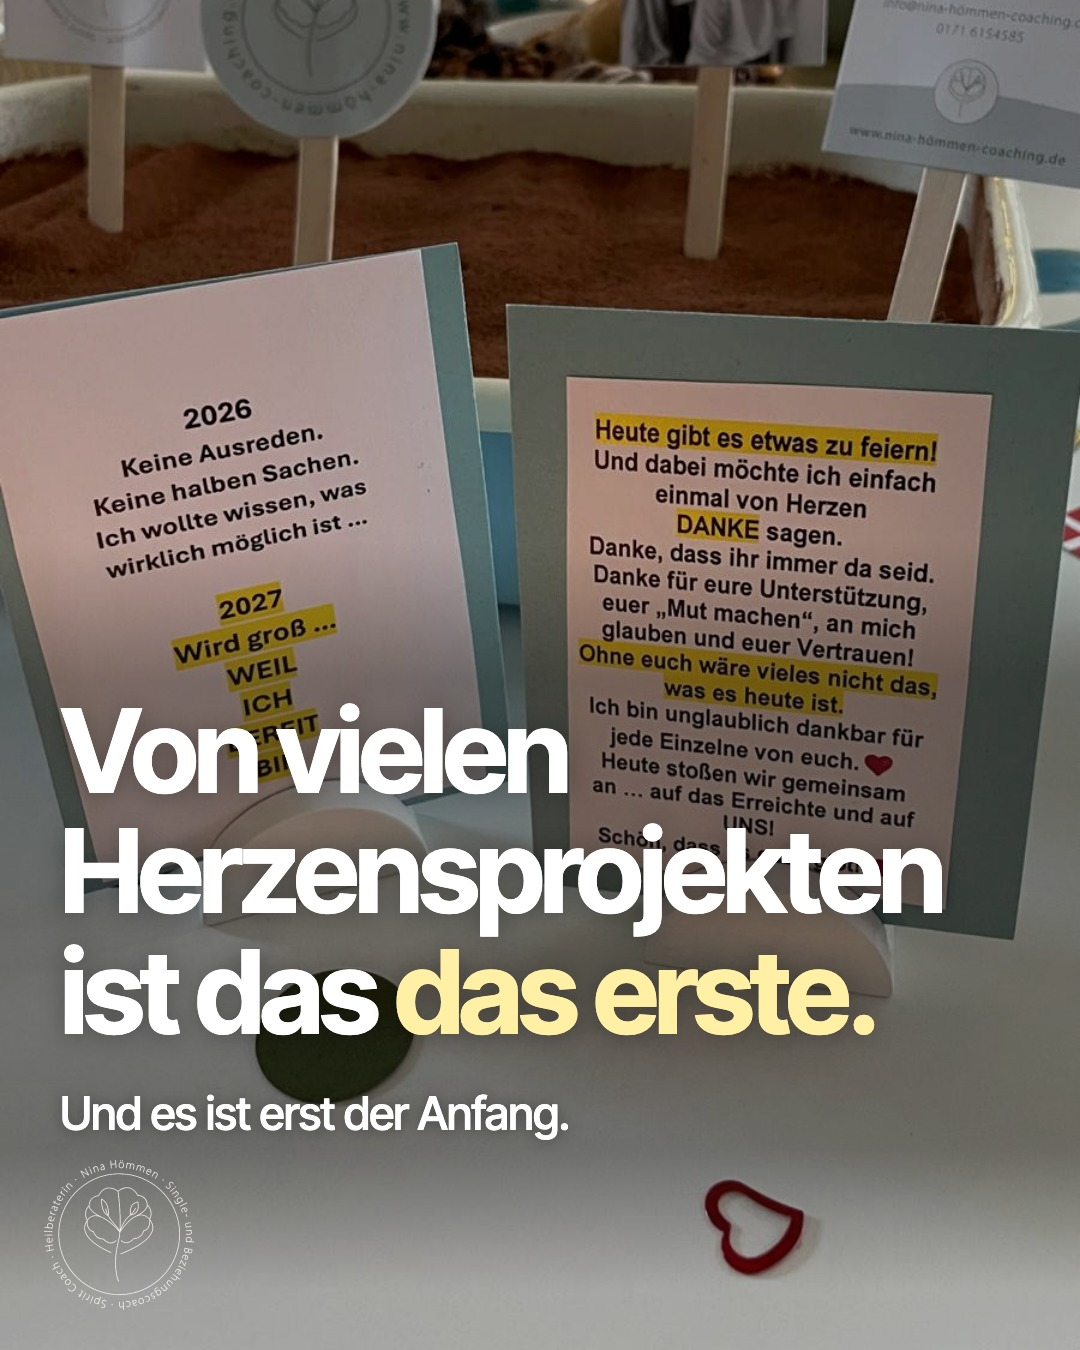
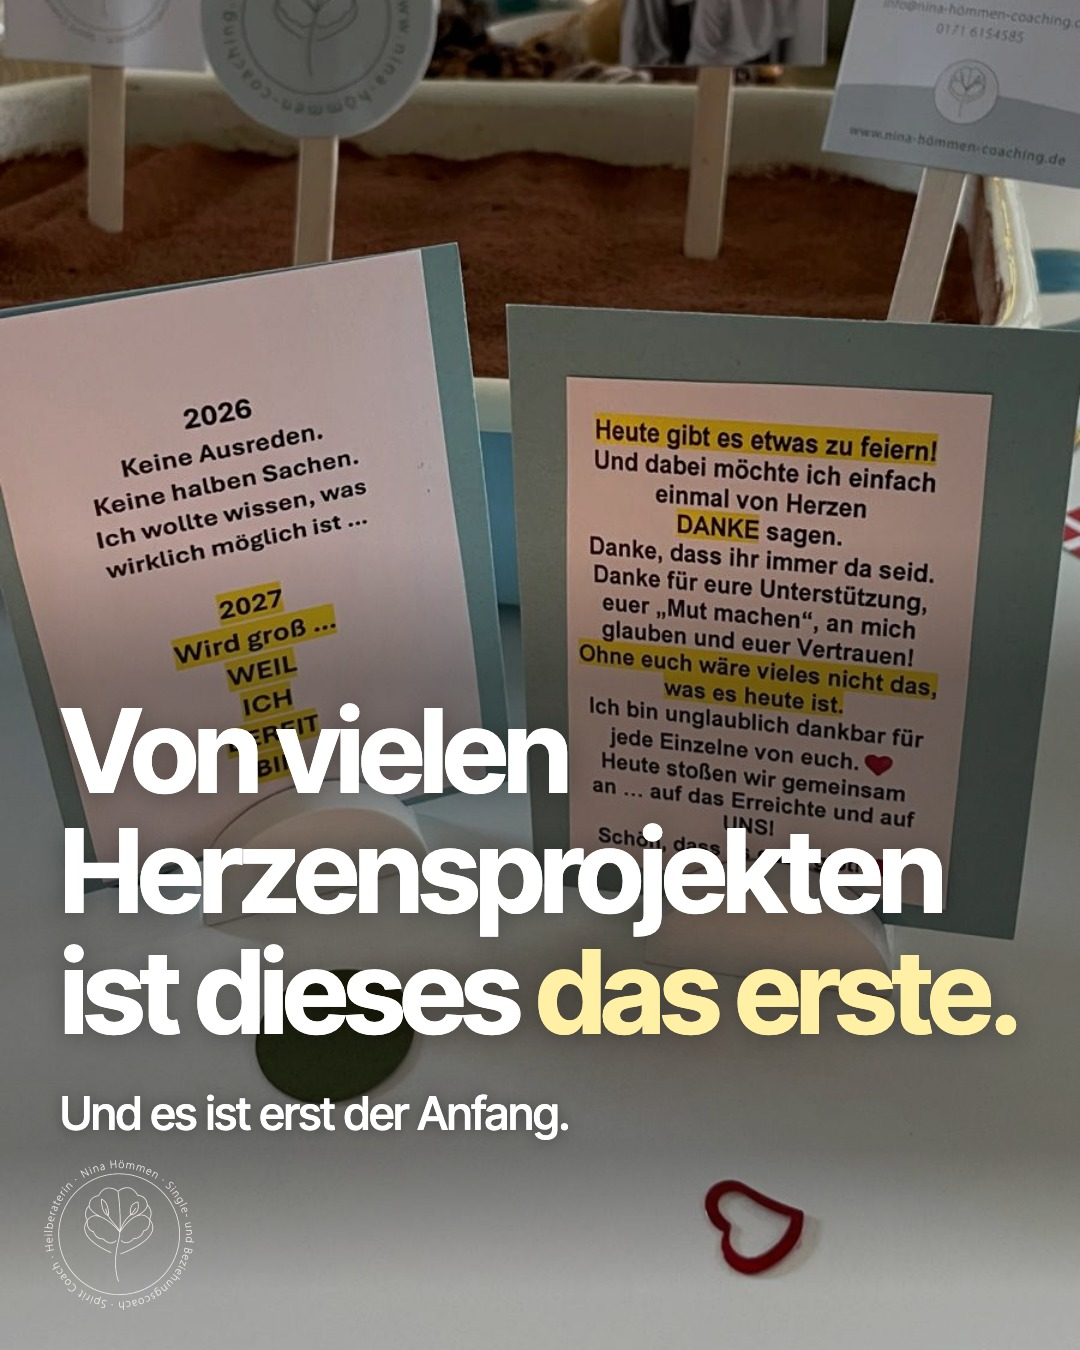
k56: Mitnahme ergänzt, Tippfehler Seite 5

Changed region(s): [[0.2444, 0.6844, 0.9472, 0.7778]]

diff --git a/docs/content-posts-auto.md b/docs/content-posts-auto.md
@@ -1444,7 +1444,7 @@ Was würdest du dir zuerst anschauen? 🤍
 | 2 | Textseite | Mein Shop ist da. Gemacht mit ganz viel Herz, Liebe und Leidenschaft. |
 | 3 | Textseite | Buch, Hörbuch, E-Book, Journale, Meditationen, Beziehungslandkarte, Gesprächskarten und Adventskalender. |
 | 4 | Textseite | Und ab 2027 kommt meine eigene App: HERZ.REISE. |
-| 5 | Textseite | Von vielen Herzensprojekten ist das das erste. Und es ist erst der Anfang. |
+| 5 | Textseite | Von vielen Herzensprojekten ist dieses das erste. Und es ist erst der Anfang. |
 | 6 | Schlussseite | Für Singles und Menschen in herausfordernden Beziehungen. Wer soll das wissen? Schick es weiter. Link in der Bio. |
 
 **Caption:**
@@ -1456,6 +1456,8 @@ Darin findest du mein Buch „Zwischen Single-Sein & falscher Nähe“ als Hardc
 
 Ich kann es kaum glauben und bin so unfassbar glücklich und dankbar. Von vielen Herzensprojekten ist heute das erste ganz offiziell da. Und wisst ihr was? Das ist erst der Anfang.
 
+Zum Mitnehmen: Auf meiner Karte zur Feier stand: Keine Ausreden. Keine halben Sachen. Ich wollte wissen, was wirklich möglich ist. Vielleicht ist das auch eine Frage für dich: Wofür bist du gerade bereit?
+
 Danke an alle, die immer da waren, mich unterstützt, Mut gemacht und an mich geglaubt haben. Ohne euch wäre vieles nicht das, was es heute ist. 🤍
 
 Der Shop ist für Singles und für Menschen in herausfordernden Beziehungen, die sich nach echter Verbindung sehnen. Du findest ihn über den Link in der Bio.
@@ -1463,6 +1465,8 @@ Der Shop ist für Singles und für Menschen in herausfordernden Beziehungen, die
 Wer soll das wissen? Schick den Beitrag weiter. 🙏🏻
 
 Folge @ninahoemmencoaching, damit du die nächsten Herzensprojekte nicht verpasst.
+
+Wofür bist du gerade bereit? Schreib es mir in die Kommentare. 🤍
 
 **Hashtags:** #shop #beziehungsmuster #selbstreflexion #traumasensibel #oldenburg
 
